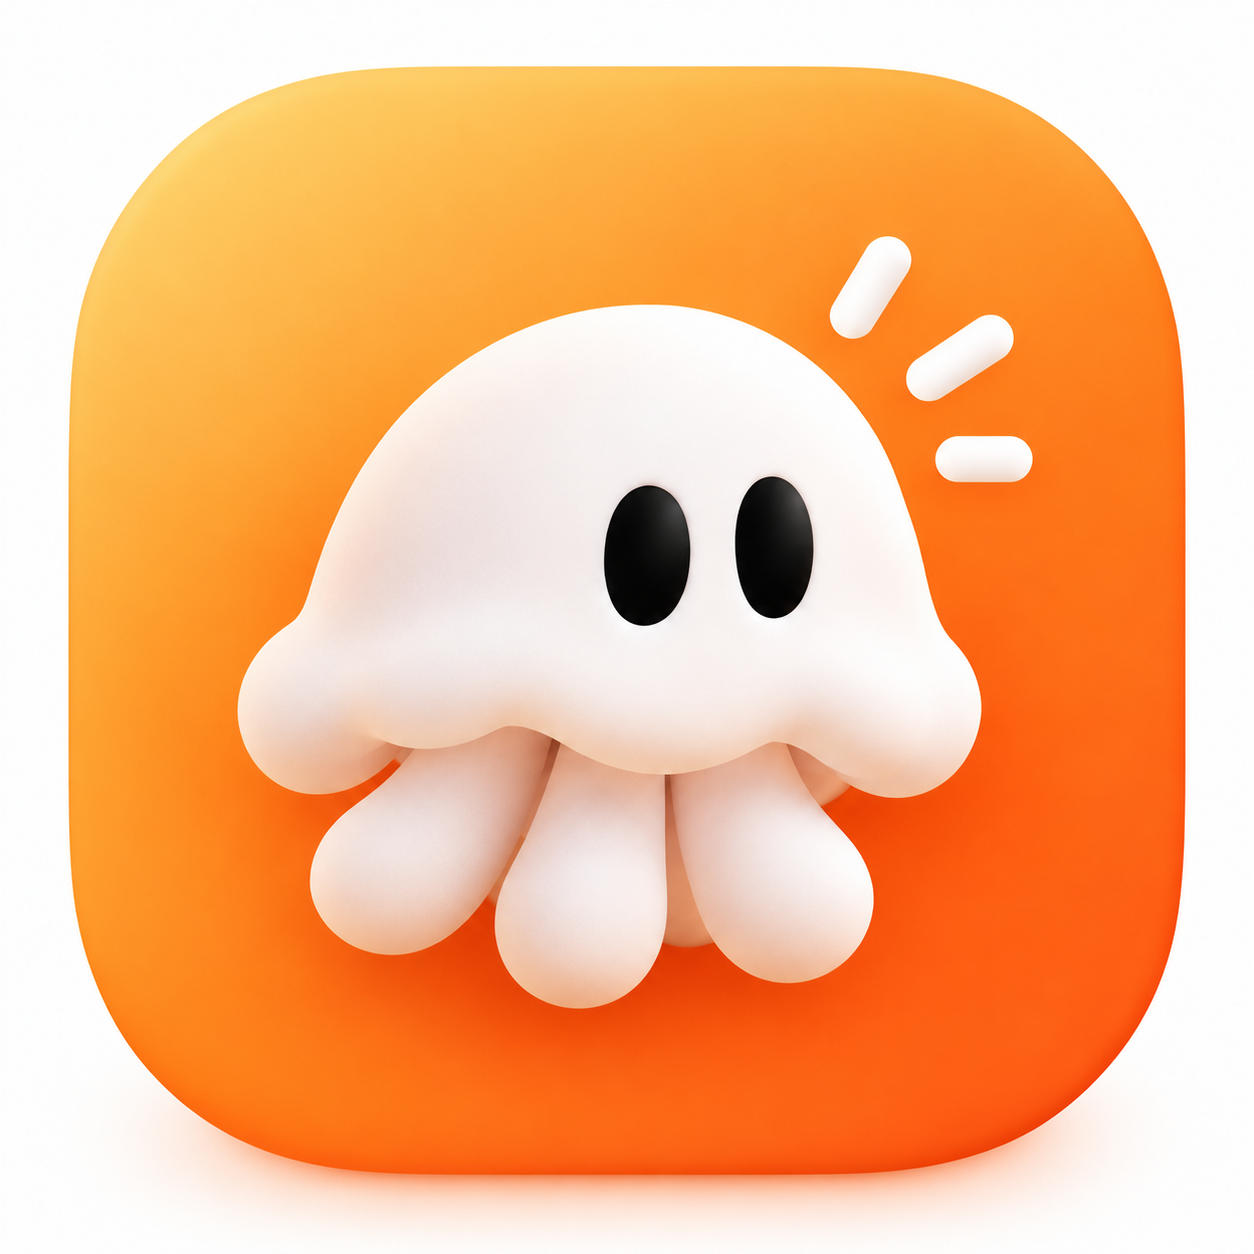
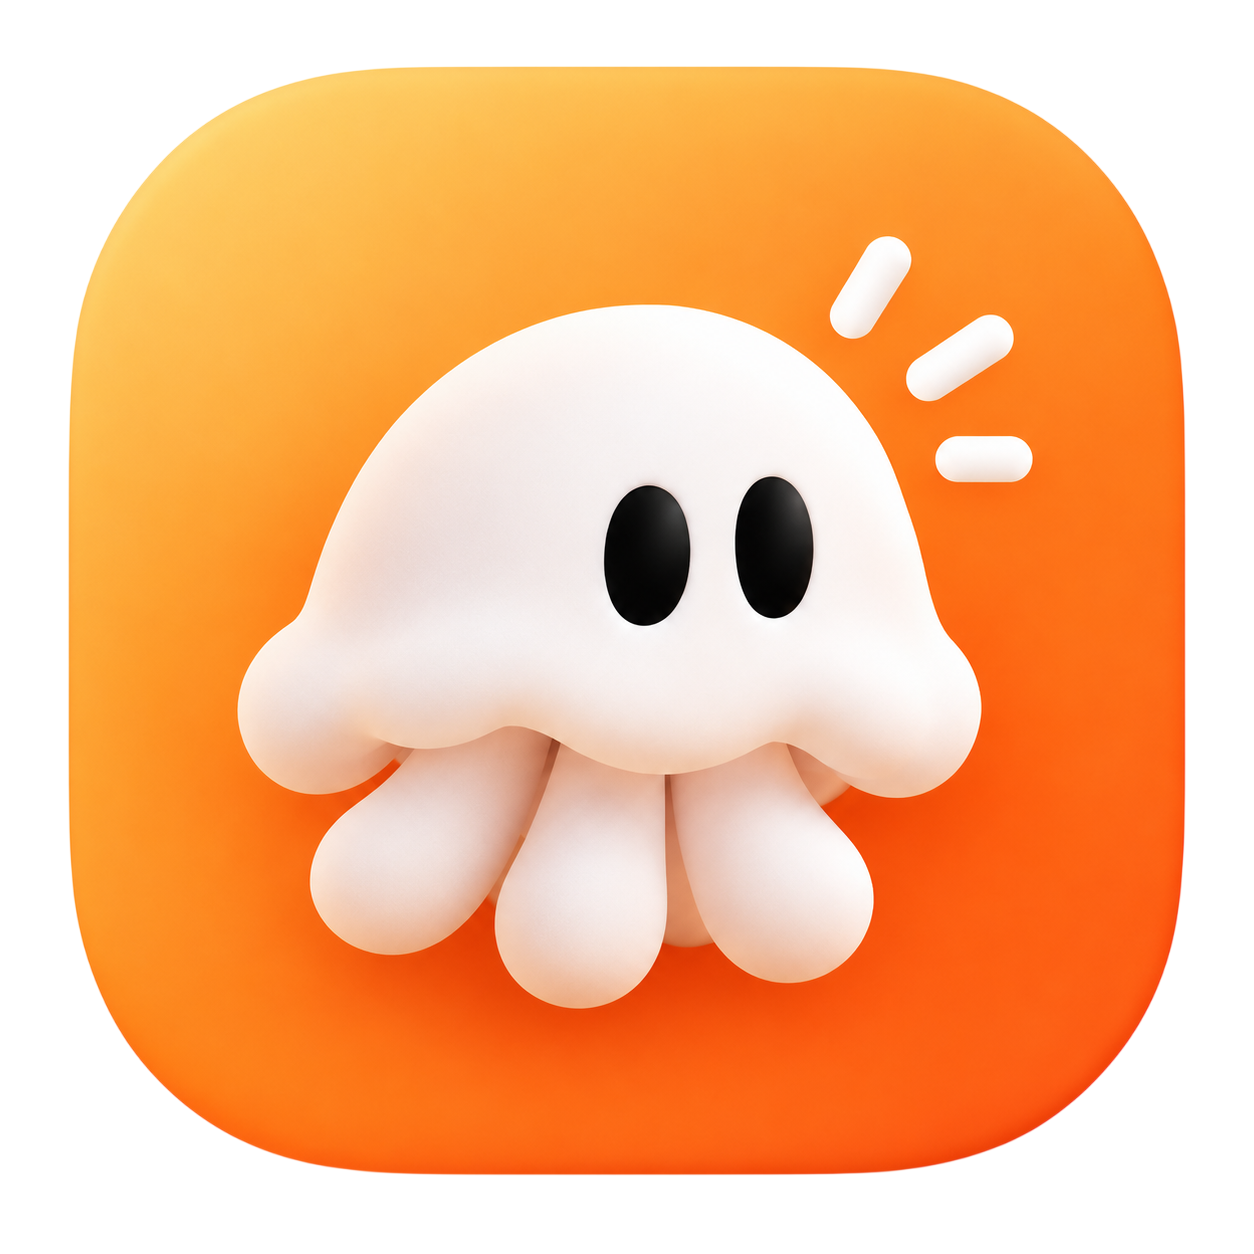
Implement billing order updates and refresh brand assets across meduha components
Replit-Commit-Author: Agent

Changed region(s): [[0.1244, 0.8708, 0.8708, 0.9952]]

diff --git a/artifacts/meduha/src/meduha/wallet/TopupSheet.tsx b/artifacts/meduha/src/meduha/wallet/TopupSheet.tsx
@@ -16,6 +16,8 @@ export function TopupSheet({ onClose, authenticated }: { onClose: () => void; au
   const [picked, setPicked] = useState<string>('p300-1200');
   const [months, setMonths] = useState<BillingMonths>(1);
   const [checkoutError, setCheckoutError] = useState('');
+  const checkoutIdempotency = useRef<{ selection: string; key: string } | null>(null);
+  const checkoutActive = useRef(false);
   const catalog = useGetMeduhaBillingCatalog({
     request: { credentials: 'same-origin' },
   });
@@ -29,7 +31,10 @@ export function TopupSheet({ onClose, authenticated }: { onClose: () => void; au
     request: { credentials: 'same-origin', headers: { 'X-Meduha-Request': '1' } },
     mutation: {
       onSuccess: result => window.location.assign(result.paymentUrl),
-      onError: () => setCheckoutError('Не удалось создать ссылку на оплату. Проверь соединение и попробуй снова.'),
+      onError: () => {
+        checkoutActive.current = false;
+        setCheckoutError('Не удалось создать ссылку на оплату. Проверь соединение и попробуй снова.');
+      },
     },
   });
   const title = step === 'review' ? 'Проверка выбора' : 'Тарифы и кредиты';
@@ -37,12 +42,20 @@ export function TopupSheet({ onClose, authenticated }: { onClose: () => void; au
   useEffect(() => {
     if (plans.length && !plans.some(item => item.id === picked)) setPicked(plans[0].id);
   }, [plans, picked]);
+  useEffect(() => {
+    checkoutIdempotency.current = null;
+  }, [plan?.id, months]);
 
   const startCheckout = () => {
-    if (!canCheckout || !plan || createPayment.isPending) return;
+    if (!canCheckout || !plan || createPayment.isPending || checkoutActive.current) return;
     setCheckoutError('');
+    checkoutActive.current = true;
+    const selection = `${plan.id}:${months}`;
+    if (checkoutIdempotency.current?.selection !== selection) {
+      checkoutIdempotency.current = { selection, key: window.crypto.randomUUID() };
+    }
     createPayment.mutate({
-      data: { planId: plan.id, termMonths: months, idempotencyKey: window.crypto.randomUUID() },
+      data: { planId: plan.id, termMonths: months, idempotencyKey: checkoutIdempotency.current.key },
     });
   };
 

diff --git a/artifacts/mockup-sandbox/src/components/mockups/meduha-light/Home.tsx b/artifacts/mockup-sandbox/src/components/mockups/meduha-light/Home.tsx
@@ -5,7 +5,7 @@ import { Credit, Frame, LiveMascot, Result, SectionTitle, Sheet, asset, mood, ro
 export default function Home(){
  const [result,setResult]=useState<{image:string;title:string}|null>(null);
  const [tools,setTools]=useState(false);
- return <Frame active="Home"><div className="m-home-line"><a className="m-wordmark" href={route("Home")}><span className="m-logo"><img src="/__mockup/images/brand/app-icon.png" alt=""/></span>meduha<span className="m-orange">.</span></a><Credit/></div>
+ return <Frame active="Home"><div className="m-home-line"><a className="m-wordmark" href={route("Home")}><span className="m-logo"><img src="/__mockup/images/brand/app-icon-ui-v2.webp" alt=""/></span>meduha<span className="m-orange">.</span></a><Credit/></div>
  <section className="m-hero"><div className="m-eyebrow" style={{marginBottom:7}}>Твоя идея. Наша магия.</div><h1>А что, если<br/><span>можно всё?</span></h1><p>Фото, видео и музыка.<br/>Просто придумай — я создам.</p><LiveMascot moods={["hello","wink","joy"]} alt="Белая медуза — твой творческий помощник"/><Sparkles className="spark" size={23}/></section>
  <div className="m-entry-grid"><a href={route("Create")+"?type=photo"} className="m-entry press"><img src={asset("portrait")} alt="Портрет в закатном свете"/><div className="m-entry-content"><h3>Создать фото</h3><p>Ты в любой вселенной</p><div className="m-entry-cta">Попробовать<ArrowRight size={14}/></div></div></a><a href={route("Create")+"?type=video"} className="m-entry press"><img src={asset("car")} alt="Кинематографичный автомобиль"/><div className="m-entry-content"><h3>Создать видео</h3><p>Оживи свою историю</p><div className="m-entry-cta">Попробовать<ArrowRight size={14}/></div></div></a></div>
  <a className="m-music-link press" href={route("Create")+"?type=music"}><span className="music-icon"><Music2 size={17}/></span><strong>А может, свой трек?</strong><small>Из пары слов</small><ArrowRight size={15}/></a>

diff --git a/artifacts/mockup-sandbox/src/components/mockups/meduha/Home.tsx b/artifacts/mockup-sandbox/src/components/mockups/meduha/Home.tsx
@@ -6,7 +6,7 @@ import "./_group.css";
 export default function Home(){
  const [result,setResult]=useState<{image:string;title:string}|null>(null);
  const [tools,setTools]=useState(false);
- return <Frame active="Home"><div className="m-home-line"><a className="m-wordmark" href={route("Home")}><span className="m-logo"><img src="/__mockup/images/brand/app-icon.png" alt=""/></span>meduha<span className="m-orange">.</span></a><Credit/></div>
+ return <Frame active="Home"><div className="m-home-line"><a className="m-wordmark" href={route("Home")}><span className="m-logo"><img src="/__mockup/images/brand/app-icon-ui-v2.webp" alt=""/></span>meduha<span className="m-orange">.</span></a><Credit/></div>
  <section className="m-hero"><div className="m-eyebrow" style={{marginBottom:7}}>Твоя идея. Наша магия.</div><h1>А что, если<br/><span>можно всё?</span></h1><p>Фото, видео и музыка.<br/>Просто придумай — я создам.</p><LiveMascot moods={["hello","wink","joy"]} alt="Белая медуза машет, подмигивает и радуется — твой творческий помощник"/><Sparkles className="spark" size={23}/></section>
  <div className="m-entry-grid"><a href={route("Create")+"?type=photo"} className="m-entry press"><img src={asset("portrait")} alt="Портрет в закатном свете"/><div className="m-entry-content"><h3>Создать фото</h3><p>Ты в любой вселенной</p><div className="m-entry-cta">Попробовать<ArrowRight size={14}/></div></div></a><a href={route("Create")+"?type=video"} className="m-entry press"><img src={asset("car")} alt="Кинематографичный автомобиль"/><div className="m-entry-content"><h3>Создать видео</h3><p>Оживи свою историю</p><div className="m-entry-cta">Попробовать<ArrowRight size={14}/></div></div></a></div>
  <a className="m-music-link press" href={route("Create")+"?type=music"}><span className="music-icon"><Music2 size={17}/></span><strong>А может, свой трек?</strong><small>Из пары слов</small><ArrowRight size={15}/></a>

diff --git a/artifacts/api-server/src/routes/meduha-payments.ts b/artifacts/api-server/src/routes/meduha-payments.ts
@@ -6,6 +6,7 @@ import {
 } from '@workspace/api-zod';
 import {
   createPendingPaymentOrder,
+  findPaymentOrderByProviderPaymentId,
   getPaymentOrderForAccount,
   grantNextDueInstallment,
   markVerifiedPayment,
@@ -47,11 +48,11 @@ export function createMeduhaPaymentsRouter() {
 
   router.get('/billing/catalog', (_req, res) => {
     const provider = configuredPaymentProvider();
-    const baseUrl = configuredBaseUrl(_req);
     res.json({
       currency: BILLING_CURRENCY,
       referenceRate: USD_TO_RUB_REFERENCE_RATE,
-      checkoutAvailable: paymentsEnabled() && !!provider && !!baseUrl,
+      checkoutAvailable: paymentsEnabled() && !!provider
+        && (process.env.NODE_ENV !== 'production' || !!process.env.MEDUHA_PUBLIC_URL),
       plans: getBillingPlans(),
     });
   });
@@ -181,6 +182,13 @@ export function createYooKassaWebhookRouter() {
     }
 
     try {
+      // Ignore unrecognized IDs before calling the provider API; external
+      // notifications must not turn into an unauthenticated API proxy.
+      const knownOrderId = await findPaymentOrderByProviderPaymentId(provider.id, parsed.data.object.id);
+      if (!knownOrderId) {
+        res.sendStatus(200);
+        return;
+      }
       const verified = await provider.getPayment(parsed.data.object.id);
       if (!verified.orderId) {
         req.log.warn({ providerPaymentId: verified.id }, 'Ignoring provider notification without a local order');

diff --git a/artifacts/meduha/src/meduha/shared/index.tsx b/artifacts/meduha/src/meduha/shared/index.tsx
@@ -8,7 +8,7 @@ import { useMeduhaSession } from '../session';
 export { mood };
 export type { Mood };
 export const asset = (name: string) => `${import.meta.env.BASE_URL}images/meduha/${name}.png`;
-export const brandAsset = (name: string) => `${import.meta.env.BASE_URL}images/brand/${name === 'app-icon' ? 'app-icon-ui.webp' : `${name}.png`}`;
+export const brandAsset = (name: string) => `${import.meta.env.BASE_URL}images/brand/${name === 'app-icon' ? 'app-icon-ui-v2.webp' : `${name}.png`}`;
 export const route = (name: string) => ({Home:'/',Create:'/create',Works:'/works',Profile:'/profile',Community:'/community'}[name] ?? '/');
 export const ink = '#df4f12';
 export function SectionTitle({children,action,onClick}:{children:ReactNode;action?:string;onClick?:()=>void}) {

diff --git a/artifacts/api-server/src/lib/billing-orders.ts b/artifacts/api-server/src/lib/billing-orders.ts
@@ -173,6 +173,16 @@ export async function markVerifiedPayment(
   });
 }
 
+export async function findPaymentOrderByProviderPaymentId(providerId: string, providerPaymentId: string) {
+  const { rows } = await pool.query<{ id: string }>(
+    `SELECT id FROM meduha_payment_orders
+     WHERE provider_id=$1 AND provider_payment_id=$2
+     LIMIT 1`,
+    [providerId, providerPaymentId],
+  );
+  return rows[0]?.id ?? null;
+}
+
 export async function getPaymentOrderForAccount(orderId: string, accountId: string) {
   const { rows } = await pool.query<PaymentOrderRow>(
     `SELECT * FROM meduha_payment_orders WHERE id=$1 AND account_id=$2`,

diff --git a/artifacts/meduha/index.html b/artifacts/meduha/index.html
@@ -23,7 +23,7 @@
         document.documentElement.style.colorScheme = theme;
       })();
     </script>
-    <link rel="icon" type="image/webp" href="%BASE_URL%images/brand/app-icon-ui.webp" />
+    <link rel="icon" type="image/webp" href="%BASE_URL%images/brand/app-icon-ui-v2.webp" />
     <link rel="preconnect" href="https://fonts.googleapis.com">
     <link rel="preconnect" href="https://fonts.gstatic.com" crossorigin>
     <script src="https://telegram.org/js/telegram-web-app.js"></script>

diff --git a/artifacts/mockup-sandbox/src/components/mockups/meduha-mosaic/Mosaic.tsx b/artifacts/mockup-sandbox/src/components/mockups/meduha-mosaic/Mosaic.tsx
@@ -52,7 +52,7 @@ export function Mosaic() {
         <div className="mm-scroll">
           <header className="mm-topline">
             <div className="mm-brand">
-              <img src="/__mockup/images/brand/app-icon.png" alt="" />
+              <img src="/__mockup/images/brand/app-icon-ui-v2.webp" alt="" />
               <span className="mm-wordmark">meduha<i>.</i></span>
             </div>
             <div className="mm-header-right">

diff --git a/.agents/memory/MEMORY.md b/.agents/memory/MEMORY.md
@@ -25,3 +25,4 @@
 - [Video price basis](video-price-basis.md) — Seedance uses account-specific estimates; USD-to-credit conversion is explicit; approximate provider rates never become exact tariffs.
 - [Ads Studio pricing](ads-studio-pricing.md) — user chose actual-token billing; verify per-request usage for settlement, not a fixed rate or mandatory provider hard cap.
 - [Legal and payment launch scope](legal-payment-launch-scope.md) — worldwide web/Telegram and native store plans; YooKassa is for web/Telegram; legal contact and refund terms remain draft.
+- [Payment provider adapters](payment-provider-adapters.md) — use YooKassa first; add later providers behind separate adapters and stable order/ledger rules.

diff --git a/.agents/memory/payment-provider-adapters.md b/.agents/memory/payment-provider-adapters.md
@@ -1,0 +1,10 @@
+---
+name: Payment provider adapters
+description: The intended extension model for payment providers in Meduha.
+---
+
+Meduha may use multiple payment providers over time. YooKassa is the first provider for web and Telegram payments; provider-specific authentication and payment verification must remain isolated behind an adapter, and each order records its provider.
+
+**Why:** the user said different payment providers may be used in the future.
+
+**How to apply:** keep plan pricing, order fulfillment, and wallet ledger rules provider-neutral. Add future providers through separate adapters while preserving server-side verification and idempotent monthly credit grants.
